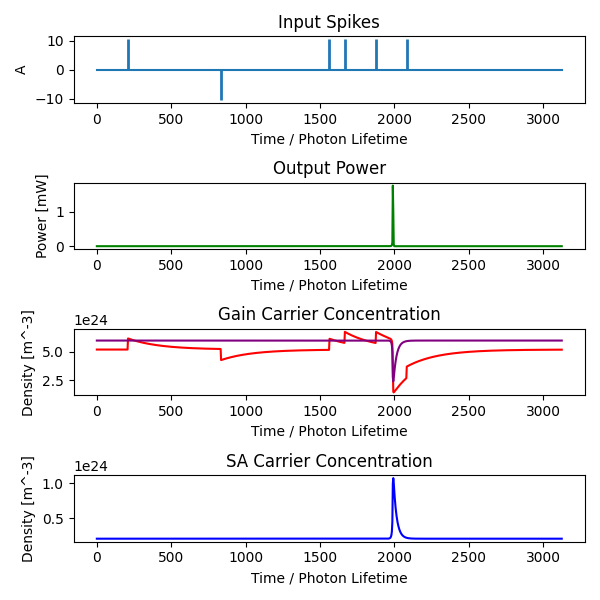
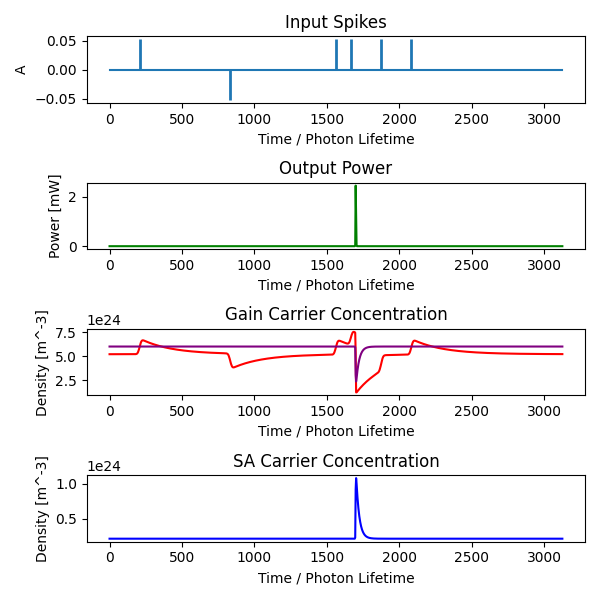
networks and dags

diff --git a/laser/vcsel_rate.py b/laser/vcsel_rate.py
@@ -203,11 +203,14 @@ class VCSEL(Yamada):
         # plt.show()
 def experiment_1():
     # NOTE spiking power is arbitrary and unclear right now and noise is virtually ignored
-    A = 1 # this is the current in amperes
+    A = 0.005 # this is the current in amperes
     spikes = ((A, 208), (-A, 833), (A, 1562.5), (A, 1666), (A, 1875), (A, 2083))
-    laser = VCSEL(params=default_vcsel_parameters(), initial_state=default_steady_state())
+    laser = VCSEL(params=default_vcsel_parameters(), initial_state=default_steady_state(), radius=109)
     laser.sim(spikes, 0, 3125, .1)
     laser.plot()
+
+    # the radius of each pulse in the experiment approx 0.5263157895 ns
+    # hence the radius of each pulse should be approximately 109 normalized time units
 def experiment_2():
     A = 6
     spikes = ((-A, 260), (-A, 900), (-A, 1562), (-A, 2100), (-A, 2700), (A, 520), (A, 1041), (A, 1562), (A, 2020), (A, 2604))

diff --git a/laser/vcsel_network.py b/laser/vcsel_network.py
@@ -4,11 +4,10 @@ from vcsel_rate import default_vcsel_parameters
 from vcsel_rate import format_inputs, get_vcsel_yamada_model, default_steady_state
 class SpikingNetwork():
     """
-    A class defining a spiking neural network.
+    A class defining a sequential spiking network spiking neural network.
     """
     def __init__(self):
         self.network_layers = []
-
     def add_input(self, neuron, name):
         self.network_layers.append(neuron)
         self.network_layers[-1].name = name
@@ -22,7 +21,6 @@ class SpikingNetwork():
         if (numerical_outputs):
             return forwarded_inputs.ys
         return forwarded_inputs
-    
 def one_network():
     DEFAULTPARAMS = default_vcsel_parameters()
     A = 1 # this seems to be OFF for some reason

diff --git a/laser/vcsel_neuron.py b/laser/vcsel_neuron.py
@@ -28,5 +28,5 @@ class SpikingNeuron(NetworkLayer):
         start, end = self._time_range(X, epsilon=5)
         self.laser.sim(X, start, end, self.step_size)
         return self.laser.sol
-    def plot(self, name):
+    def plot(self, name, parameters, spikes=[(0, 0)]):
         return self.laser.plot(name=name)
